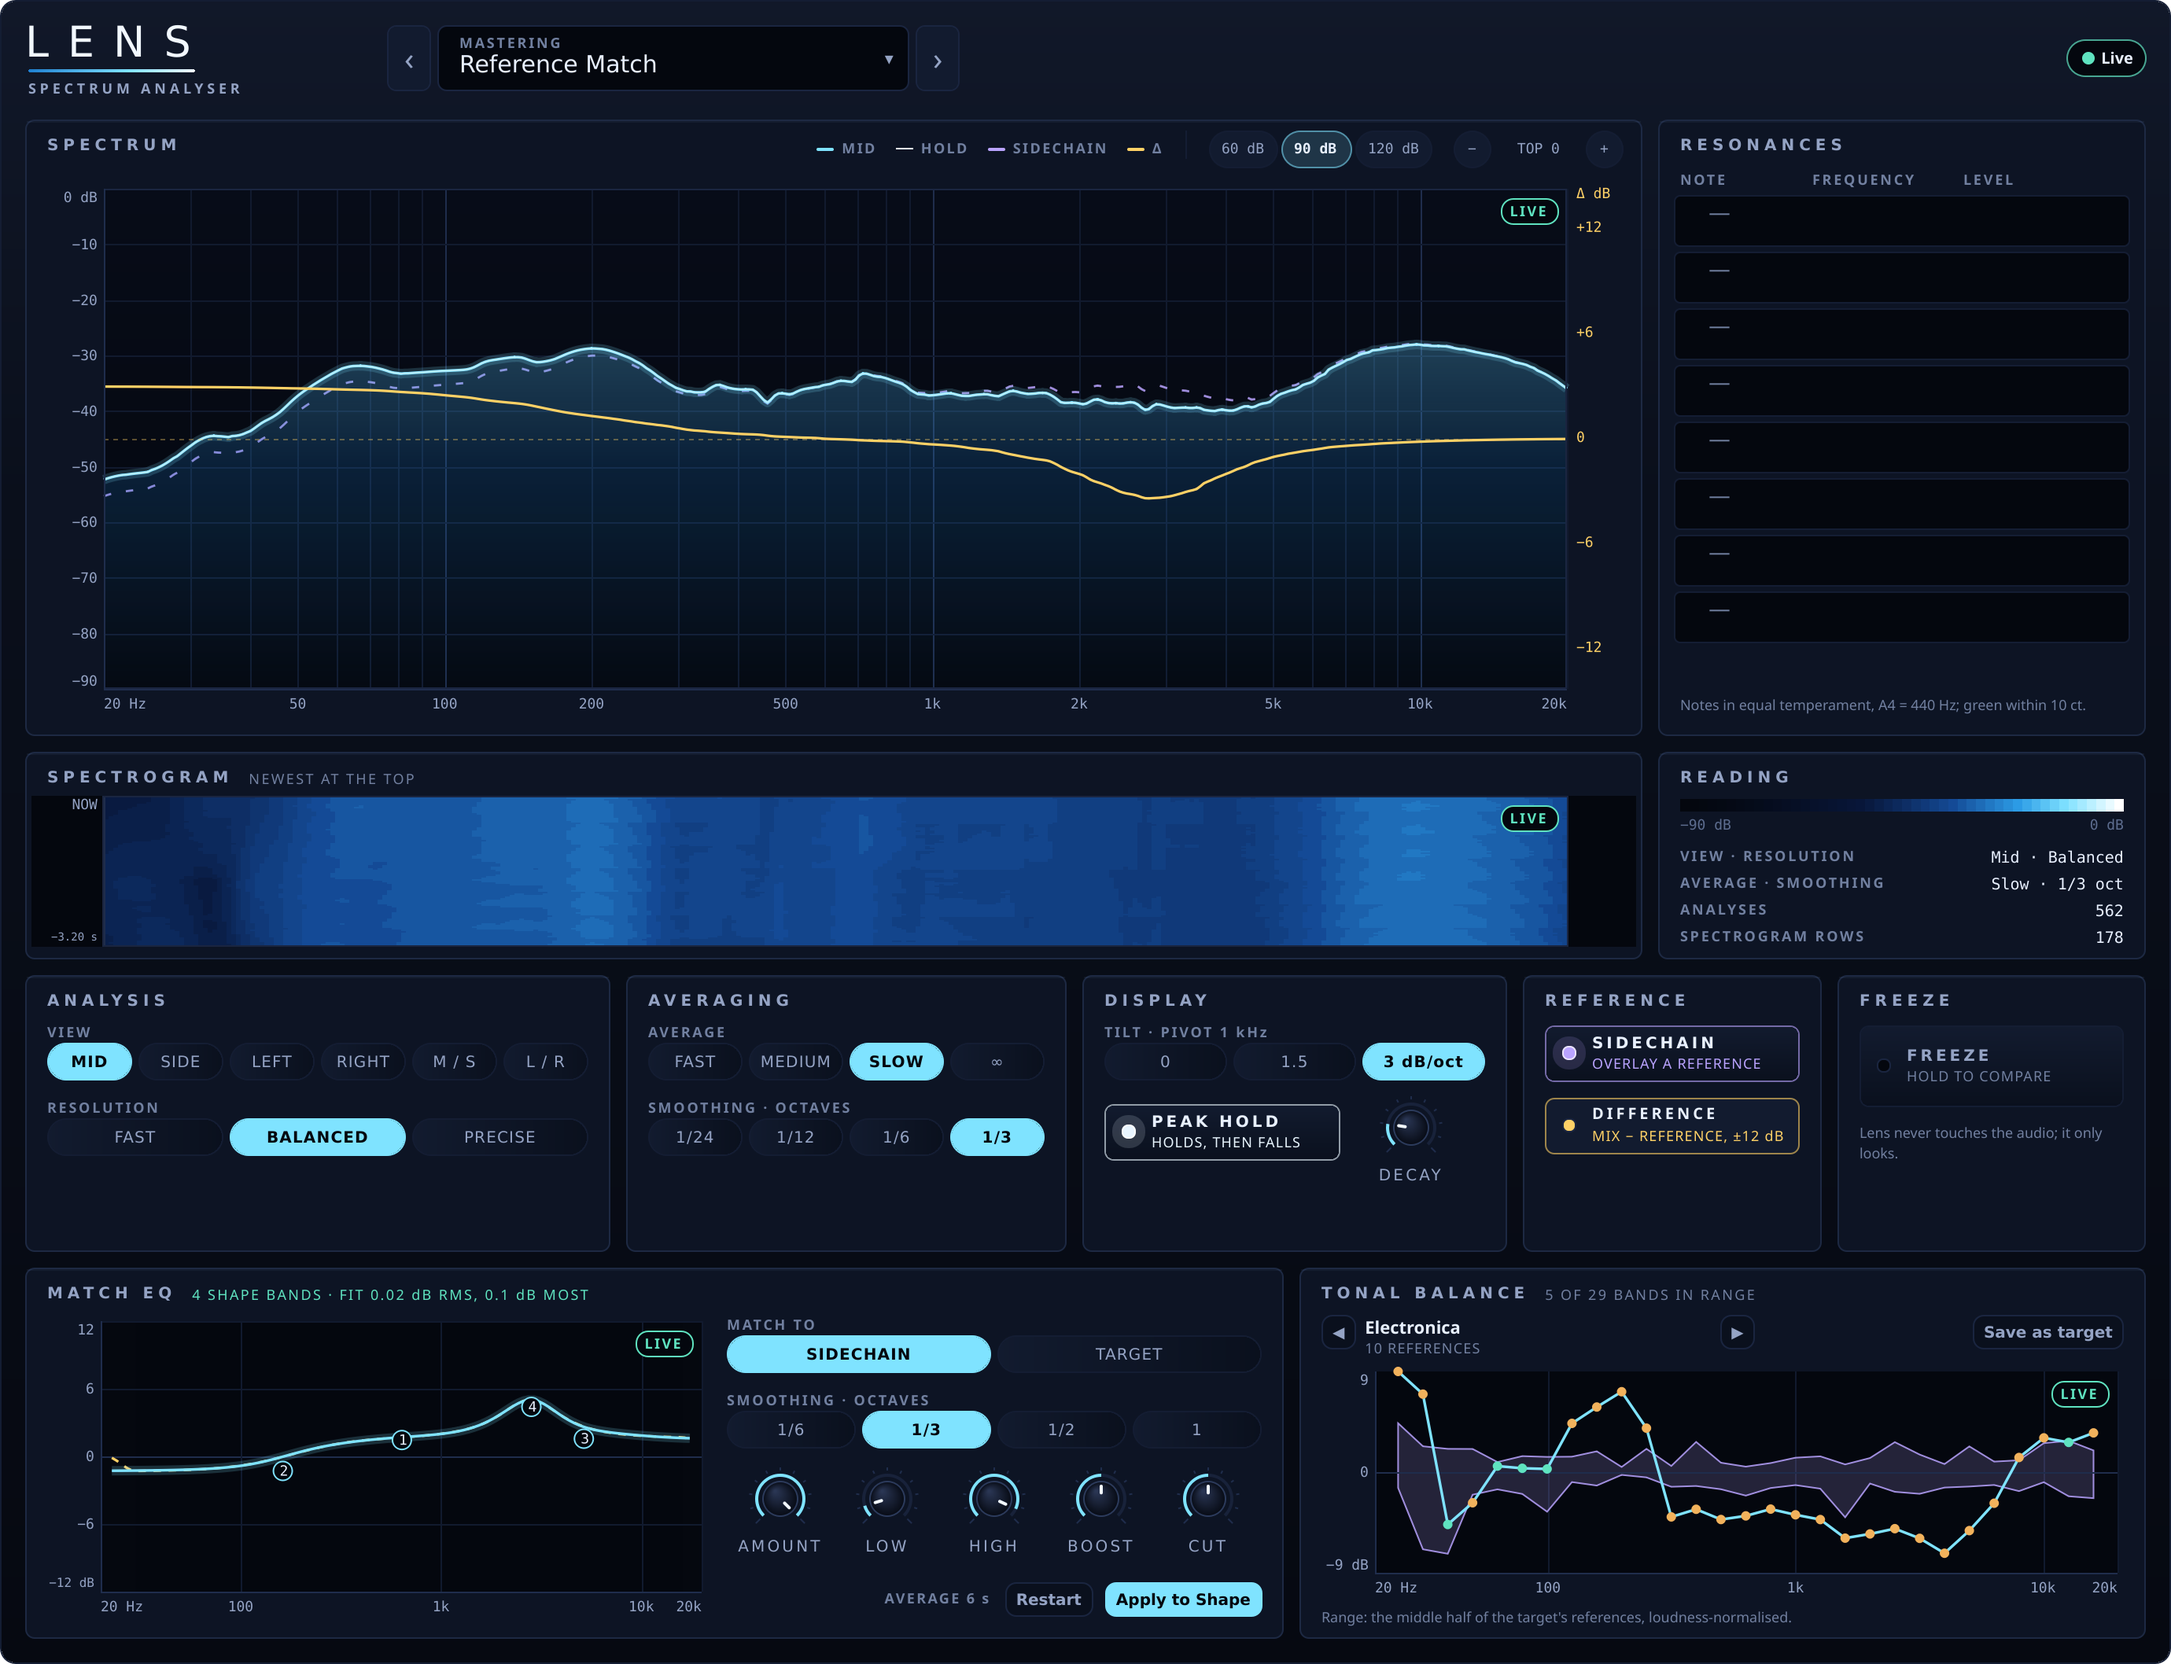
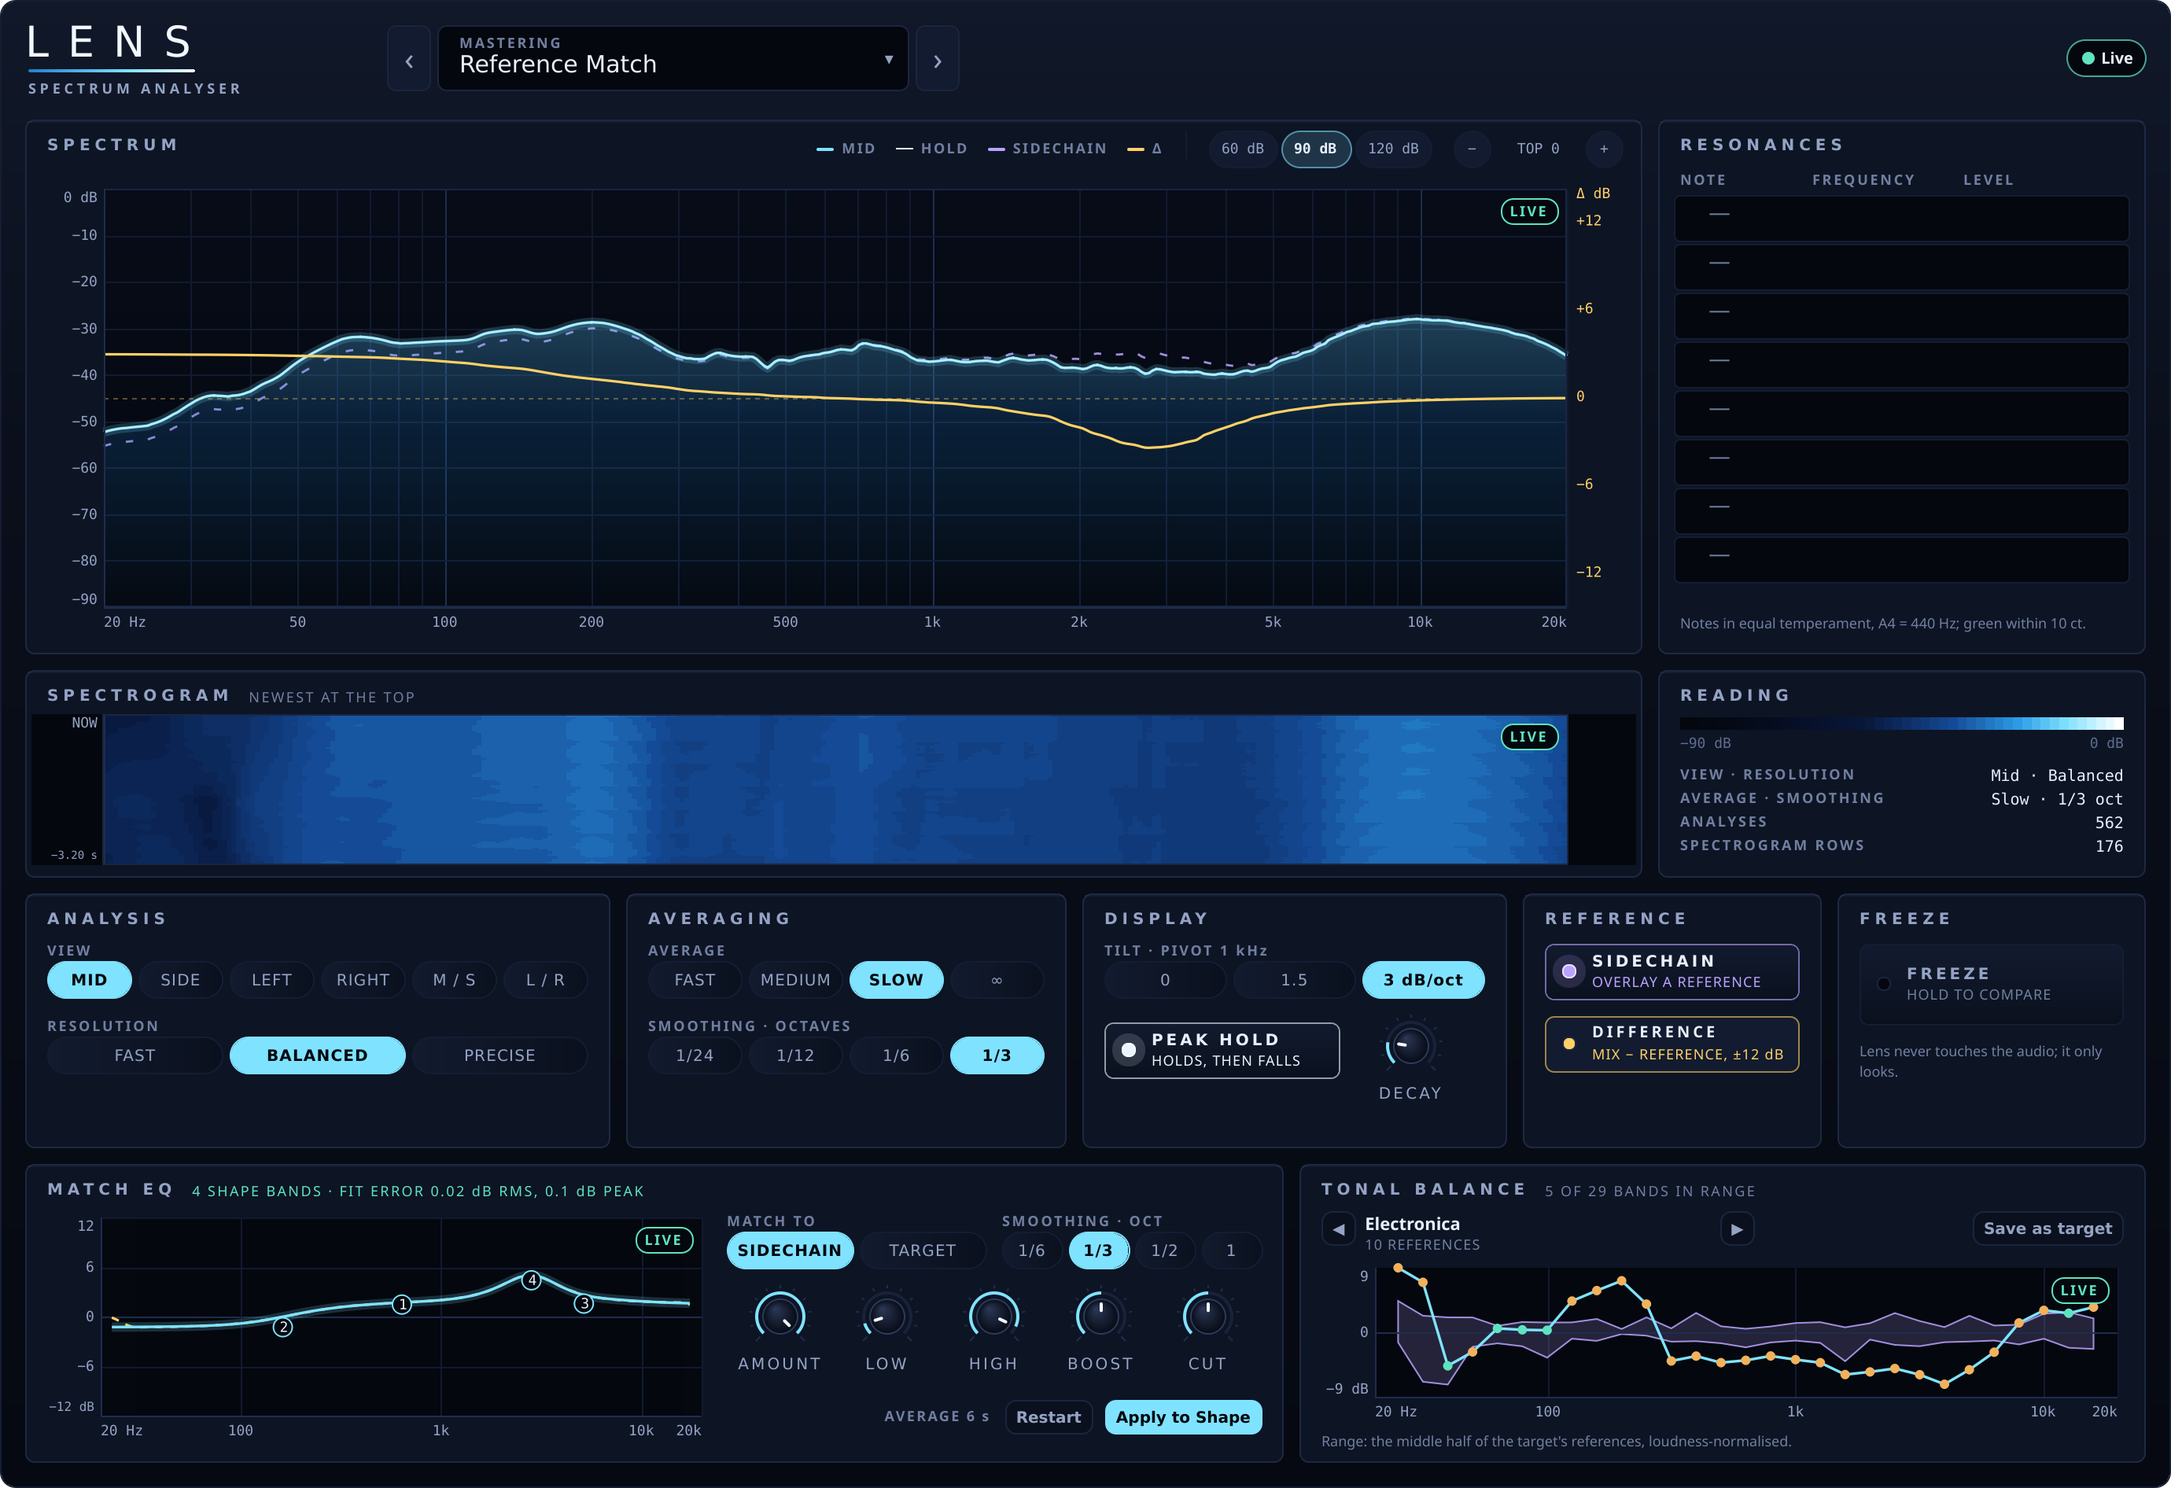
fix(app,tools): Lens plots in the app's resources; panel fits the editor; factory written whole

diff --git a/apps/daw_quick/qml/lens/LensTheme.qml b/apps/daw_quick/qml/lens/LensTheme.qml
@@ -120,7 +120,7 @@ KitTheme {
 
     // The panel's layout.
     property int panelWidth: 1380
-    property int panelHeight: 1058
+    property int panelHeight: 946
     property real panelRadius: 10
     property real cardGap: 10
     property real cardInset: 14
@@ -181,7 +181,7 @@ KitTheme {
 
     // Row A: the spectrum and the resonance table.
     property real rowAY: 76
-    property real rowAHeight: 392
+    property real rowAHeight: 340
     property real sideWidth: 310
     property real spectrumY: 30
     property real tableHeaderY: 32
@@ -189,13 +189,13 @@ KitTheme {
     property real frequencyColumnWidth: 96
     property real tableX: 10
     property real tableY: 48
-    property real tableSpacing: 3
-    property real tableRowHeight: 33
+    property real tableSpacing: 1
+    property real tableRowHeight: 30
     property real strongestWashAlpha: 0.08
     property real rankWidth: 16
     property real noteX: 22
     property real noteNameY: 3
-    property real noteCentsY: 20
+    property real noteCentsY: 17
     property real frequencyX: 92
     property real levelX: 186
     property real levelBarX: 248
@@ -231,15 +231,15 @@ KitTheme {
     property real differenceTextX: 30
     property real freezeToggleHeight: 52
     property real freezeNoteY: 94
-    property real rowCHeight: 176
+    property real rowCHeight: 162
 
     // Row D: match EQ and tonal balance (ADR-0120).
     property real matchPlateWidth: 800
     property real matchPlotWidth: 420
     property real matchControlsX: 446
-    property real matchKnobY: 124
+    property real matchKnobY: 74
     property int matchKnobDiameter: 30
-    property real matchButtonsY: 200
+    property real matchButtonsY: 150
     property real matchRangeDb: 12
     property color matchOutsideFill: Qt.rgba(0.02, 0.03, 0.06, 0.6)
     property real matchBandDotRadius: 6

diff --git a/apps/daw_quick/qml/lens/LensPanel.qml b/apps/daw_quick/qml/lens/LensPanel.qml
@@ -926,10 +926,13 @@ Rectangle {
             y: panel.theme.cardContentY
             text: "MATCH TO"
         }
+        // Match To and Smoothing side by side.
+        readonly property real segmentWidth: (width - panel.theme.matchControlsX - panel.theme.cardInset
+                                              - panel.gap) / 2
         Kit.Segment {
             x: panel.theme.matchControlsX
             y: panel.theme.segmentY
-            width: matchPlate.width - panel.theme.matchControlsX - panel.theme.cardInset
+            width: matchPlate.segmentWidth
             height: panel.theme.segmentRowHeight
             controller: panel.controller
             theme: panel.theme
@@ -937,14 +940,14 @@ Rectangle {
             labels: ["SIDECHAIN", "TARGET"]
         }
         Caption {
-            x: panel.theme.matchControlsX
-            y: panel.theme.secondCaptionY
-            text: "SMOOTHING · OCTAVES"
+            x: panel.theme.matchControlsX + matchPlate.segmentWidth + panel.gap
+            y: panel.theme.cardContentY
+            text: "SMOOTHING · OCT"
         }
         Kit.Segment {
-            x: panel.theme.matchControlsX
-            y: panel.theme.secondSegmentY
-            width: matchPlate.width - panel.theme.matchControlsX - panel.theme.cardInset
+            x: panel.theme.matchControlsX + matchPlate.segmentWidth + panel.gap
+            y: panel.theme.segmentY
+            width: matchPlate.segmentWidth
             height: panel.theme.segmentRowHeight
             controller: panel.controller
             theme: panel.theme

diff --git a/tools/tonal_targets/main.cpp b/tools/tonal_targets/main.cpp
@@ -169,7 +169,9 @@ int run_factory(const std::string& out, const std::vector<std::string>& files) {
     }
     targets.push_back(std::move(target).value());
   }
-  std::ofstream file(out, std::ios::binary | std::ios::trunc);
+  // Generated whole before the file is touched, so a refused target leaves
+  // the existing source as it was.
+  std::ostringstream file;
   file << "// Generated by tools/tonal_targets (ADR-0120); do not edit. Each target's\n"
           "// levels are statistics of its references' loudness-normalised long-term\n"
           "// third-octave spectra; no audio is stored.\n"
@@ -196,7 +198,9 @@ int run_factory(const std::string& out, const std::vector<std::string>& files) {
   }
   file << "  }};\n  return targets;\n}\n\n"
           "} // namespace oscillate::native_dsp::tonal\n";
-  if (!file) {
+  std::ofstream written(out, std::ios::binary | std::ios::trunc);
+  written << file.str();
+  if (!written) {
     std::cerr << "cannot write " << out << '\n';
     return 1;
   }

diff --git a/apps/daw_quick/src/device_panels.cpp b/apps/daw_quick/src/device_panels.cpp
@@ -40,7 +40,7 @@ constexpr std::array panels{
     DevicePanel{"pocket", "qrc:/pocket/PocketPanel.qml", 1340, 740, ""},
     DevicePanel{"pump", "qrc:/pump/PumpPanel.qml", 1280, 720, keyed_inputs},
     DevicePanel{"chop", "qrc:/chop/ChopPanel.qml", 1240, 760, ""},
-    DevicePanel{"lens", "qrc:/lens/LensPanel.qml", 1380, 1058, ""},
+    DevicePanel{"lens", "qrc:/lens/LensPanel.qml", 1380, 946, ""},
     DevicePanel{"loudness", "qrc:/loudness/LoudnessPanel.qml", 1240, 760, ""},
     DevicePanel{"scope", "qrc:/scope/ScopePanel.qml", 1240, 760, "trackName keyName sampleRate"},
     DevicePanel{"tune", "qrc:/tune/TunePanel.qml", 1240, 760, ""},

diff --git a/docs/decisions/0120-match-eq-and-tonal-targets.md b/docs/decisions/0120-match-eq-and-tonal-targets.md
@@ -64,4 +64,4 @@ Lens compares a mix with a reference in its sidechain, but only shows the differ
   - `quick_native_synth_session_adapter_contract`: a new Shape after Lens, then the same one, each one undo step.
   - `application_routed_effect_live`: a six-band write goes live with no allocation and no gap or jump.
 - **CPU:** the tonal meter adds about 0.25% of a core to Lens, measured over its whole work: buffering every frame, then one 16384-point transform (0.34 ms) and the band sums every 0.17 s (i7-10700K, GCC 15.2).
-- **Panel:** a Match EQ card (the correction dashed, the fitted Shape response with numbered bands, the match settings, Restart and Apply to Shape) and a Tonal Balance card (target picker, range corridor, in-range count, Save as target). The panel is 1058 px tall.
+- **Panel:** a Match EQ card (the correction dashed, the fitted Shape response with numbered bands, the match settings, Restart and Apply to Shape) and a Tonal Balance card (target picker, range corridor, in-range count, Save as target). The panel is 1380 × 946.
